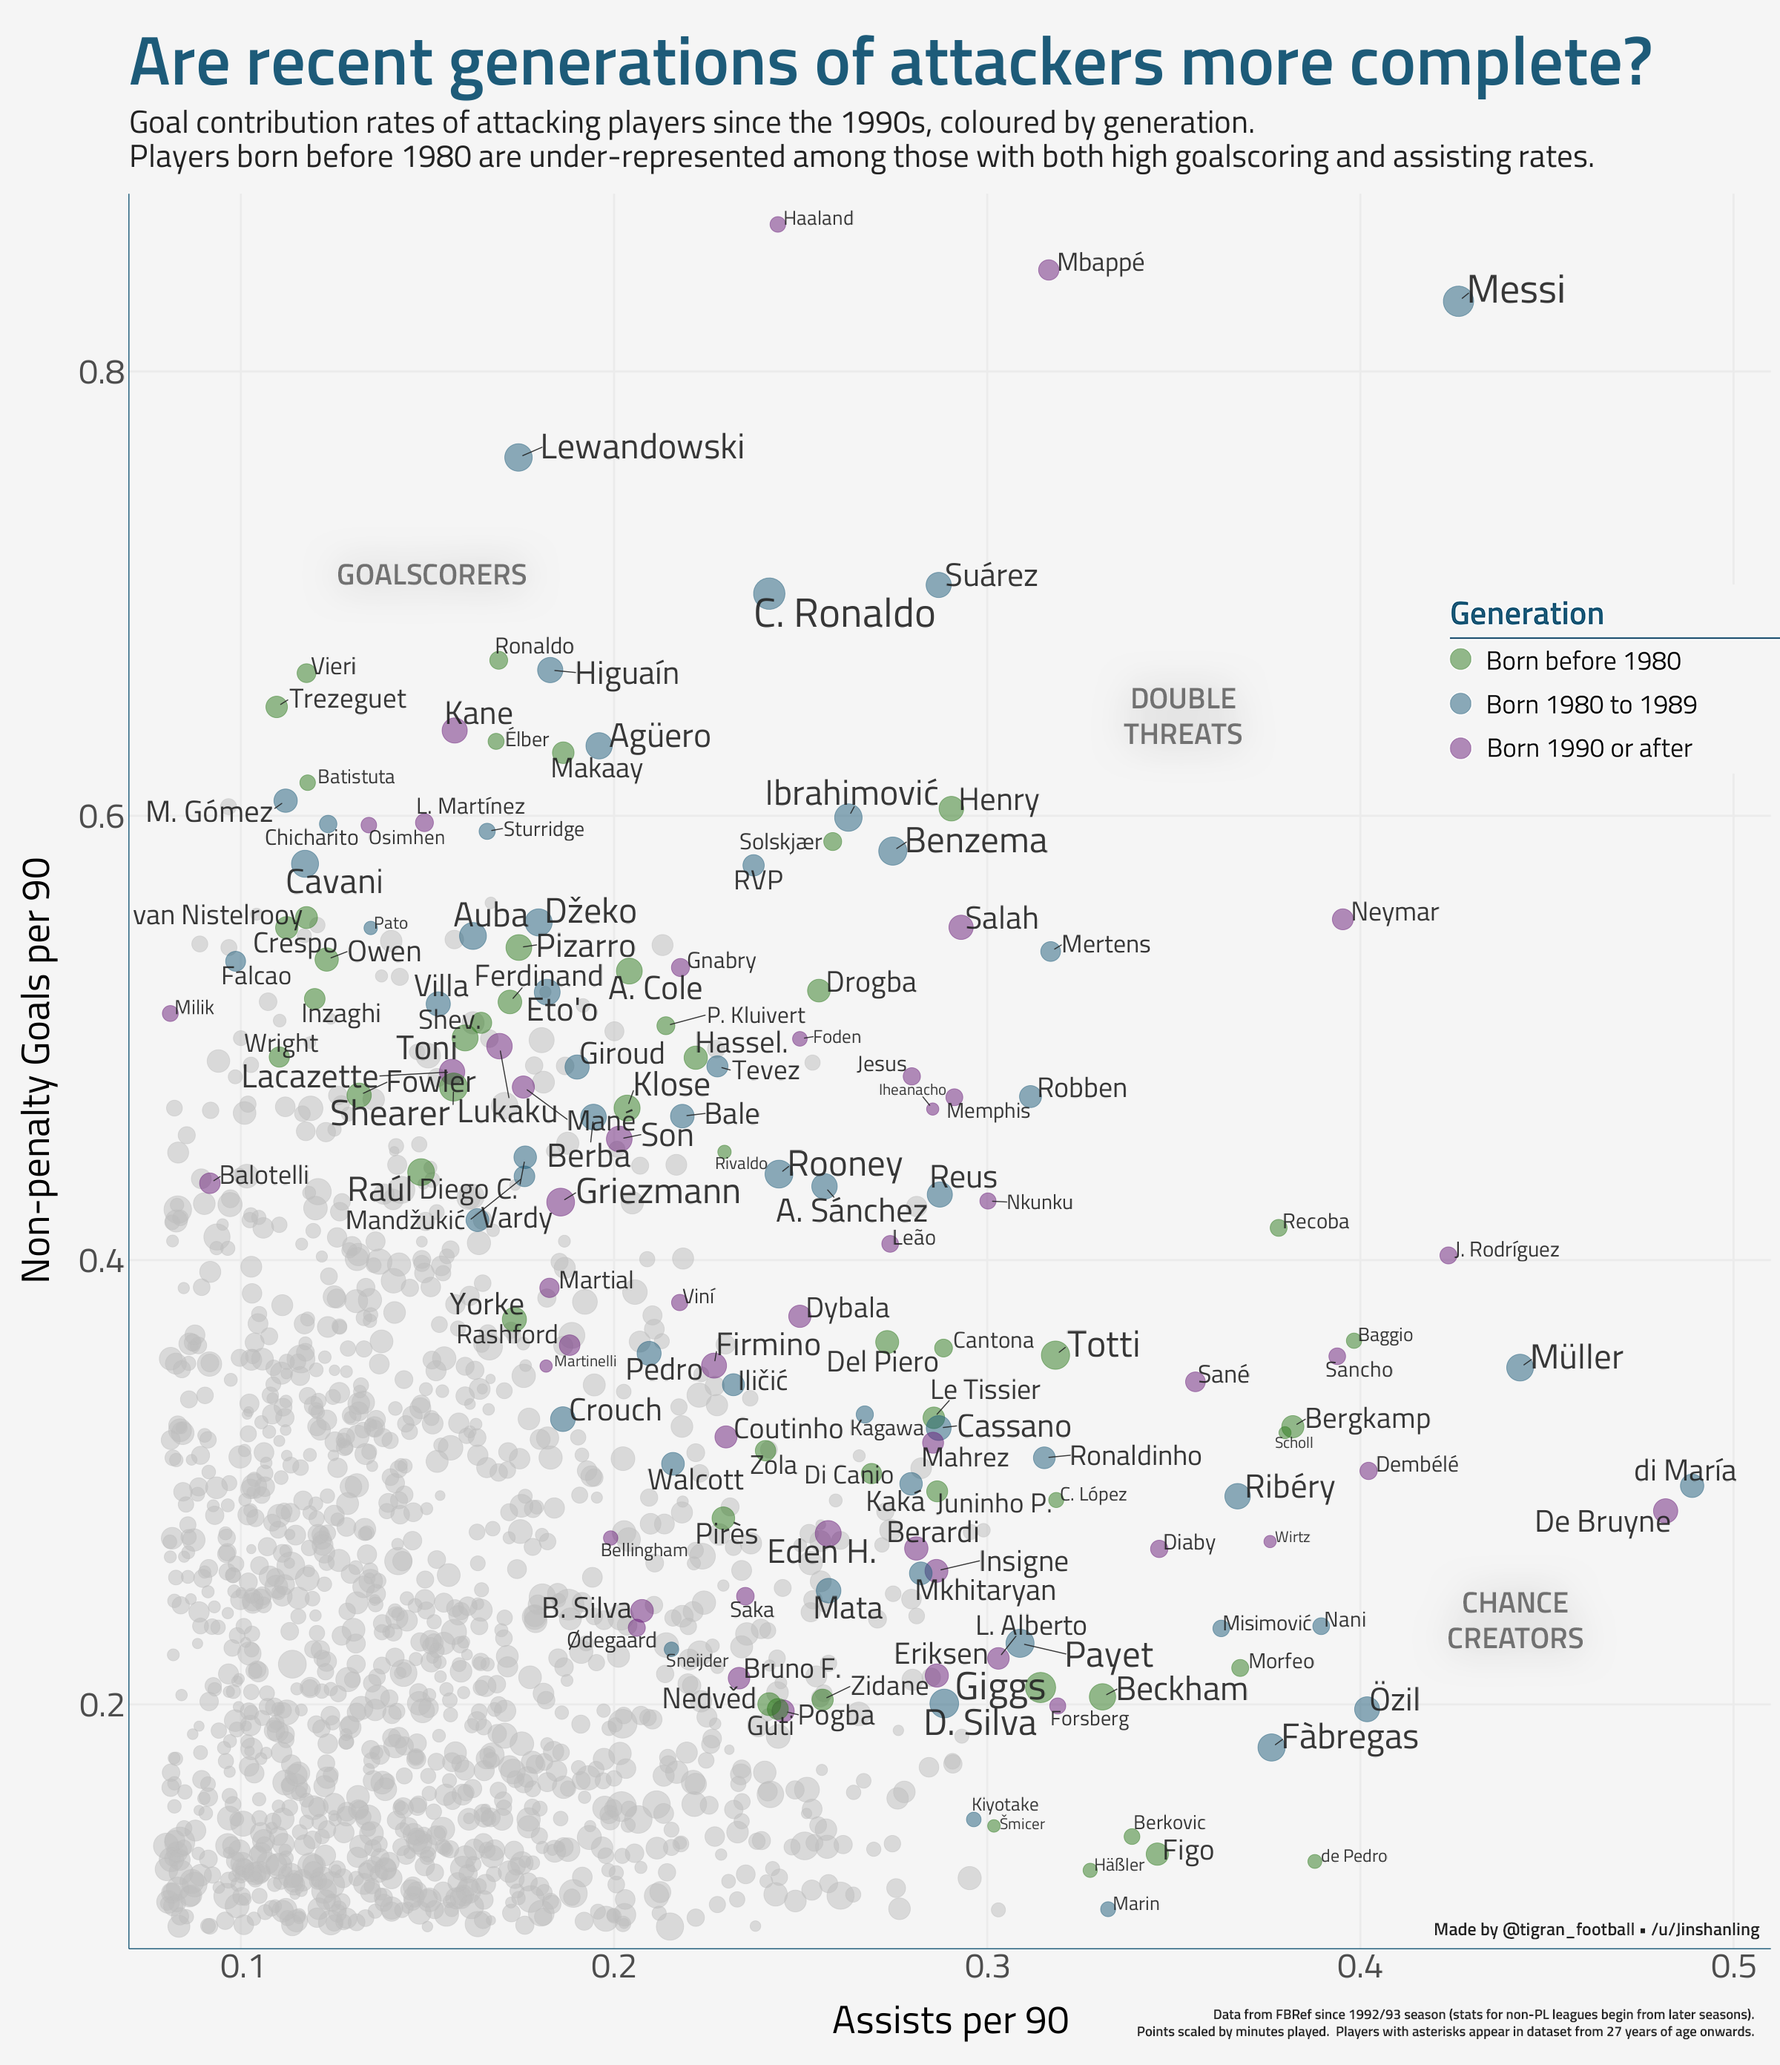
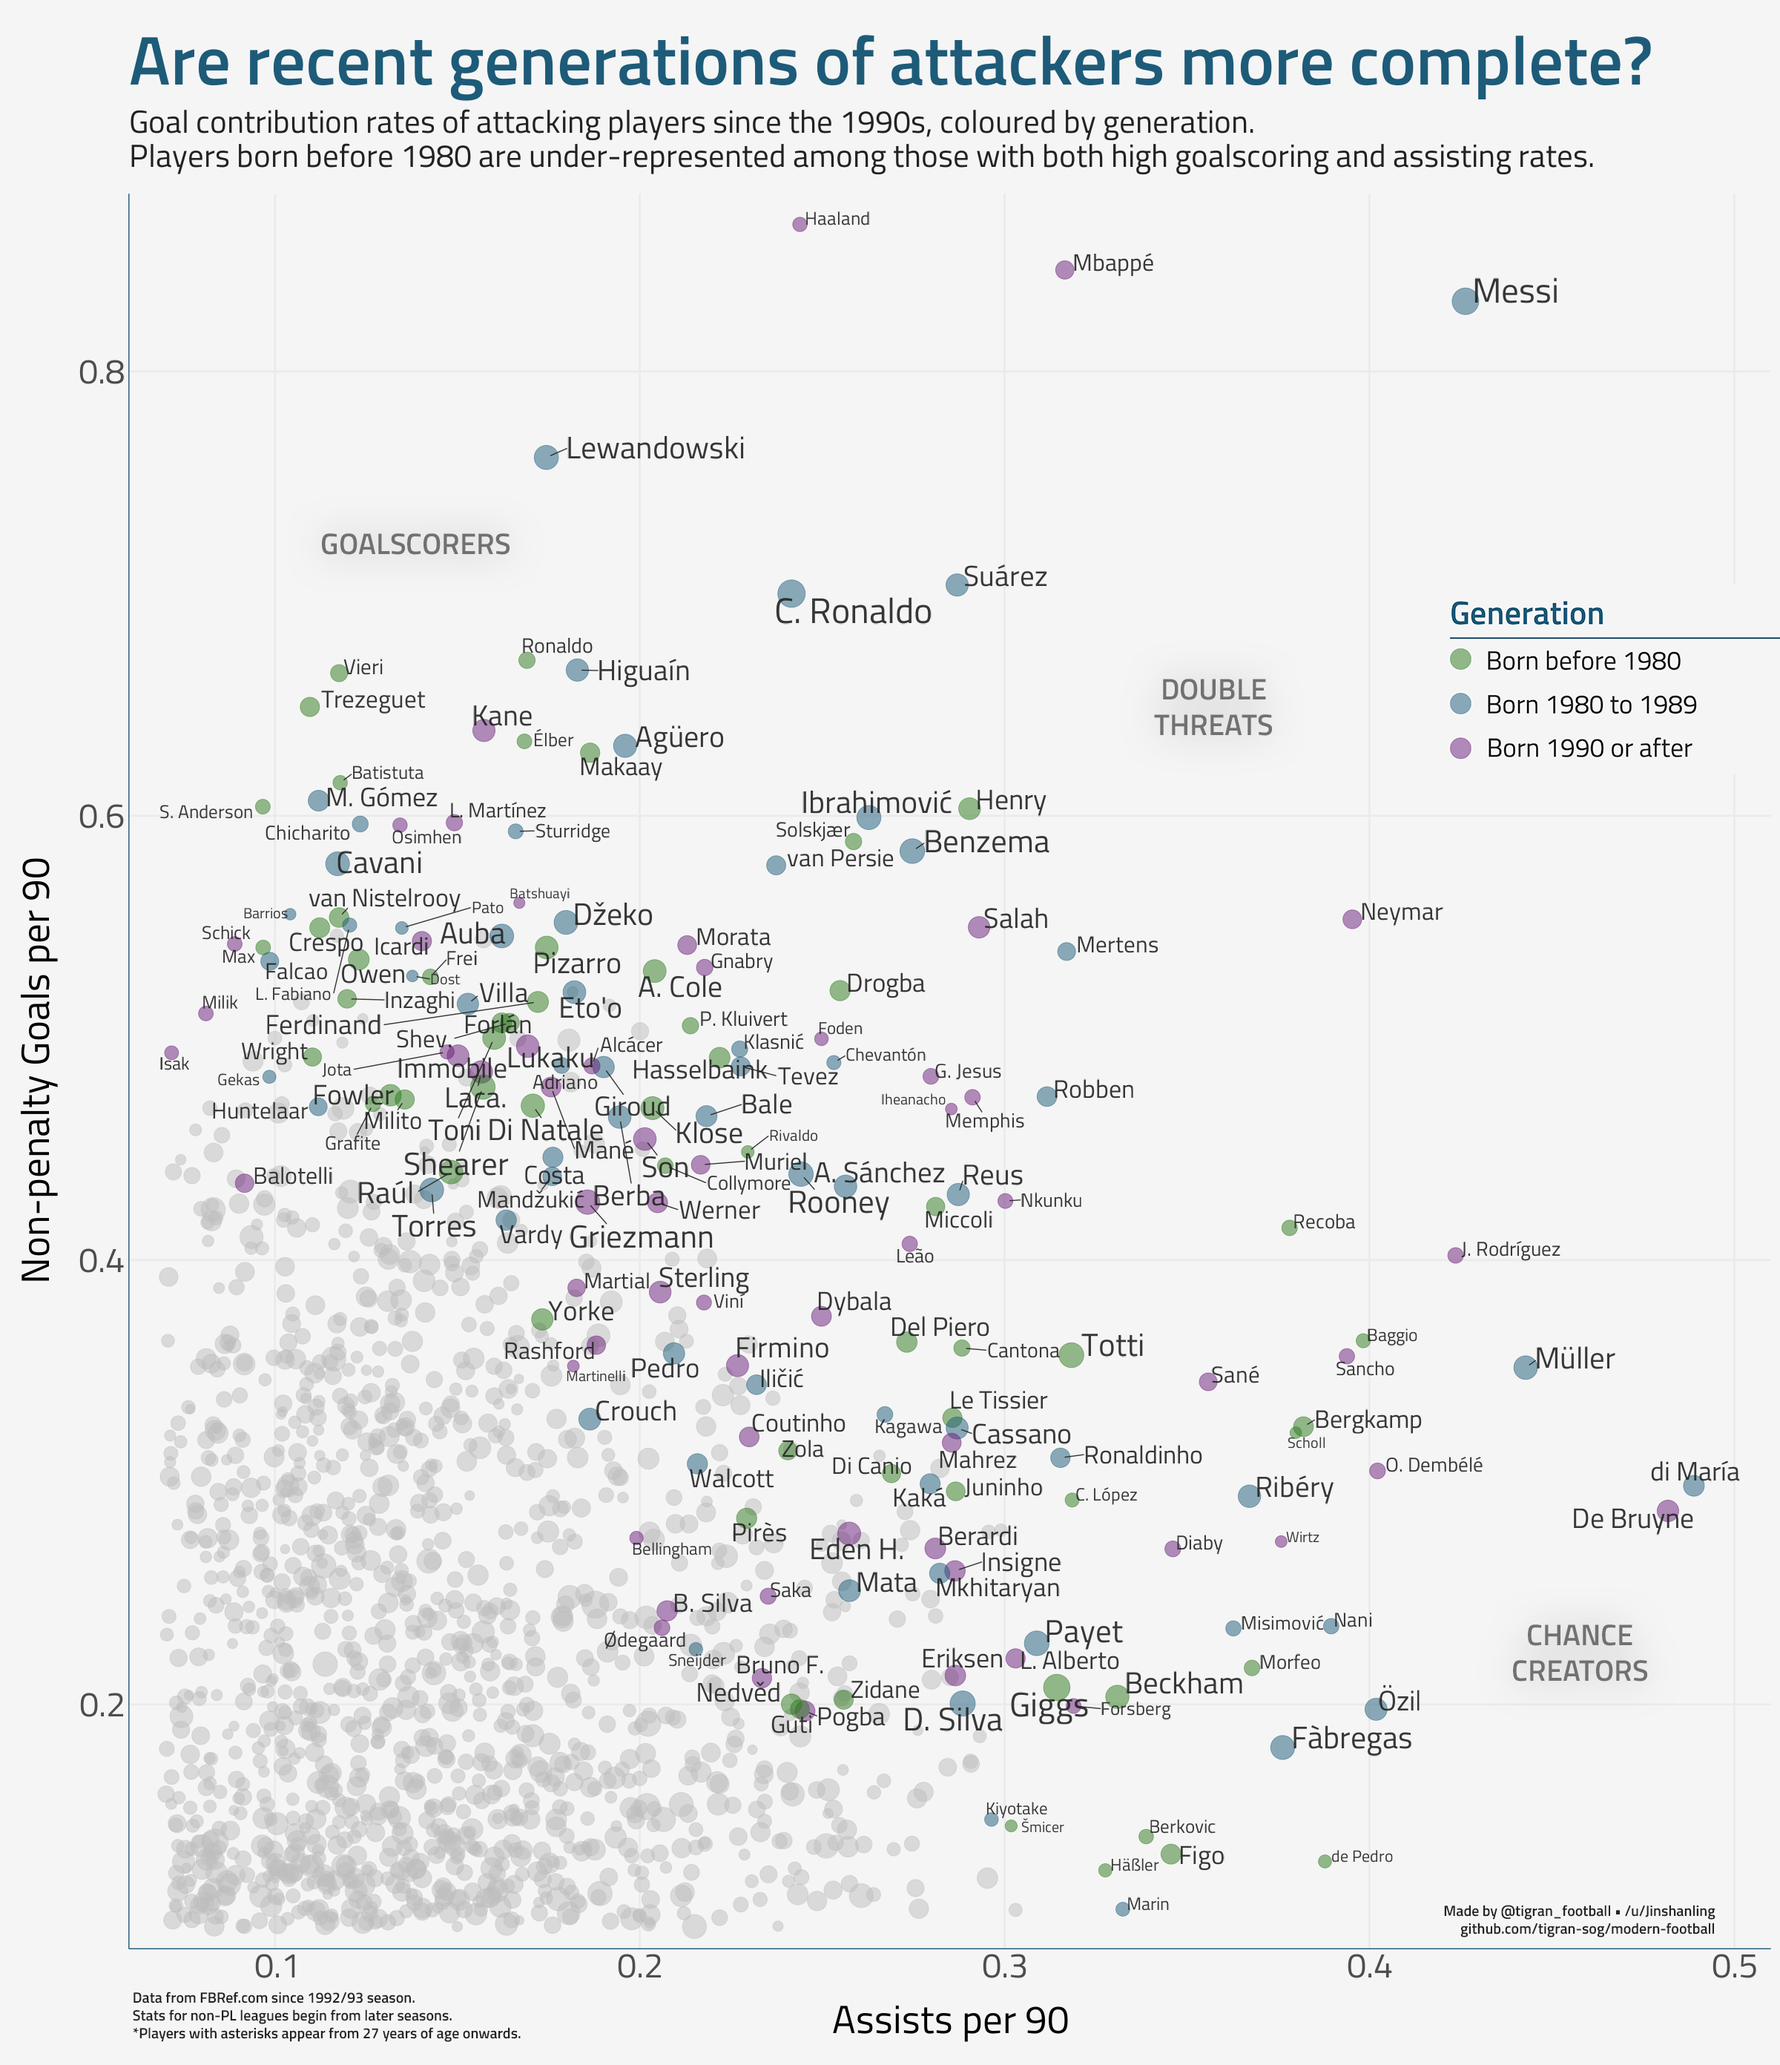
update

diff --git a/README.md b/README.md
@@ -1,28 +1,30 @@
 # modern-football
 **Visualisations of football statistics from the top 5 European leagues since the 1990s**
 
-*NOTE: This repo will be updated as new visualisations are produced and old ones are replaced*
+This repository scrapes and visualises player statistics since the 1992/93 season across the top 5 European leagues from FBRef, starting from the earliest season in which both non-penalty goals and assists were recorded in that league. Includes stats for 16,053 players over 31 seasons.
 
-This repository scrapes and analyses player statistics since the 1992/93 season across the top 5 European leagues from FBRef, starting from the earliest season in which both non-penalty goals and assists were recorded in that league. Includes stats for 16,053 players over 31 seasons.
+**Reddit:** [/u/Jinshanling](https://www.reddit.com/u/jinshanling) •  **Twitter:** [@tigran_football](https://twitter.com/tigran_football)
 
 
-### Scripts: /code/ 
+### Scripts 
 
 - **scraping.R** - Collecting FBRef data from seasons 1992/93 to 2023/24 and exporting as datasets
-- **1992_2023 summed.R** - Analysis of 1992/93 to 2023/24 seasons (player stats summed)
+- **1992_2023 summed.R** - Analysis of 1992/93 to 2023/24 seasons
+- **2017_2013 summed.R** - Analysis of 2017/18 to 2023/24 seasons (including advanced statistics)
 - **2023_24 season.R** - Analysis of 2023/24 season
 
-### Visualisations: /viz/
-- **1992_2023 a vs npg export.png** - Non-penalty goals vs. Assists for all players since 1990s
-- **1992_2023 a vs npg export.png** - Non-penalty goals vs. Assists for all players since 1990s (coloured by age)
-- **2023_2024 npg xa export.png** - Non-penalty goals vs. Expected Assists for 2023/24 season
 
-### Interactive visualisations:
 
-- **historic goals assists** - [Interactive version **here**](https://public.tableau.com/views/Whohavebeenthebiggestattackingthreatsofthemodernera/Biggestattackingthreatsofthemodernera?:language=en-GB&:display_count=n&:origin=viz_share_link&:device=desktop)
+### Visualisations
 
-- **best seasons** - [Interactive version **here**](https://public.tableau.com/views/Bestattackingseasonsmodernfootball/Bestseasons?:language=en-GB&:display_count=n&:origin=viz_share_link&:device=desktop)
+[Click **here** for the interactive version of this graph](https://public.tableau.com/views/Whohavebeenthemostproductiveplayerssincethe1990s/Dashboard1?:language=en-GB&:sid=&:display_count=n&:origin=viz_share_link)
 
 
 ![1992/93 - 2023/24 NPG vs A viz](viz/9223%20npg%20a%20export.png?raw=true)
 
+
+
+![1992/93 - 2023/24 NPG vs A viz](viz/9223%20npg%20a%20age%20export.png)
+
+
+![1992/93 - 2023/24 NPG vs A viz](viz/2324%20npg%20xa%20export.png)
